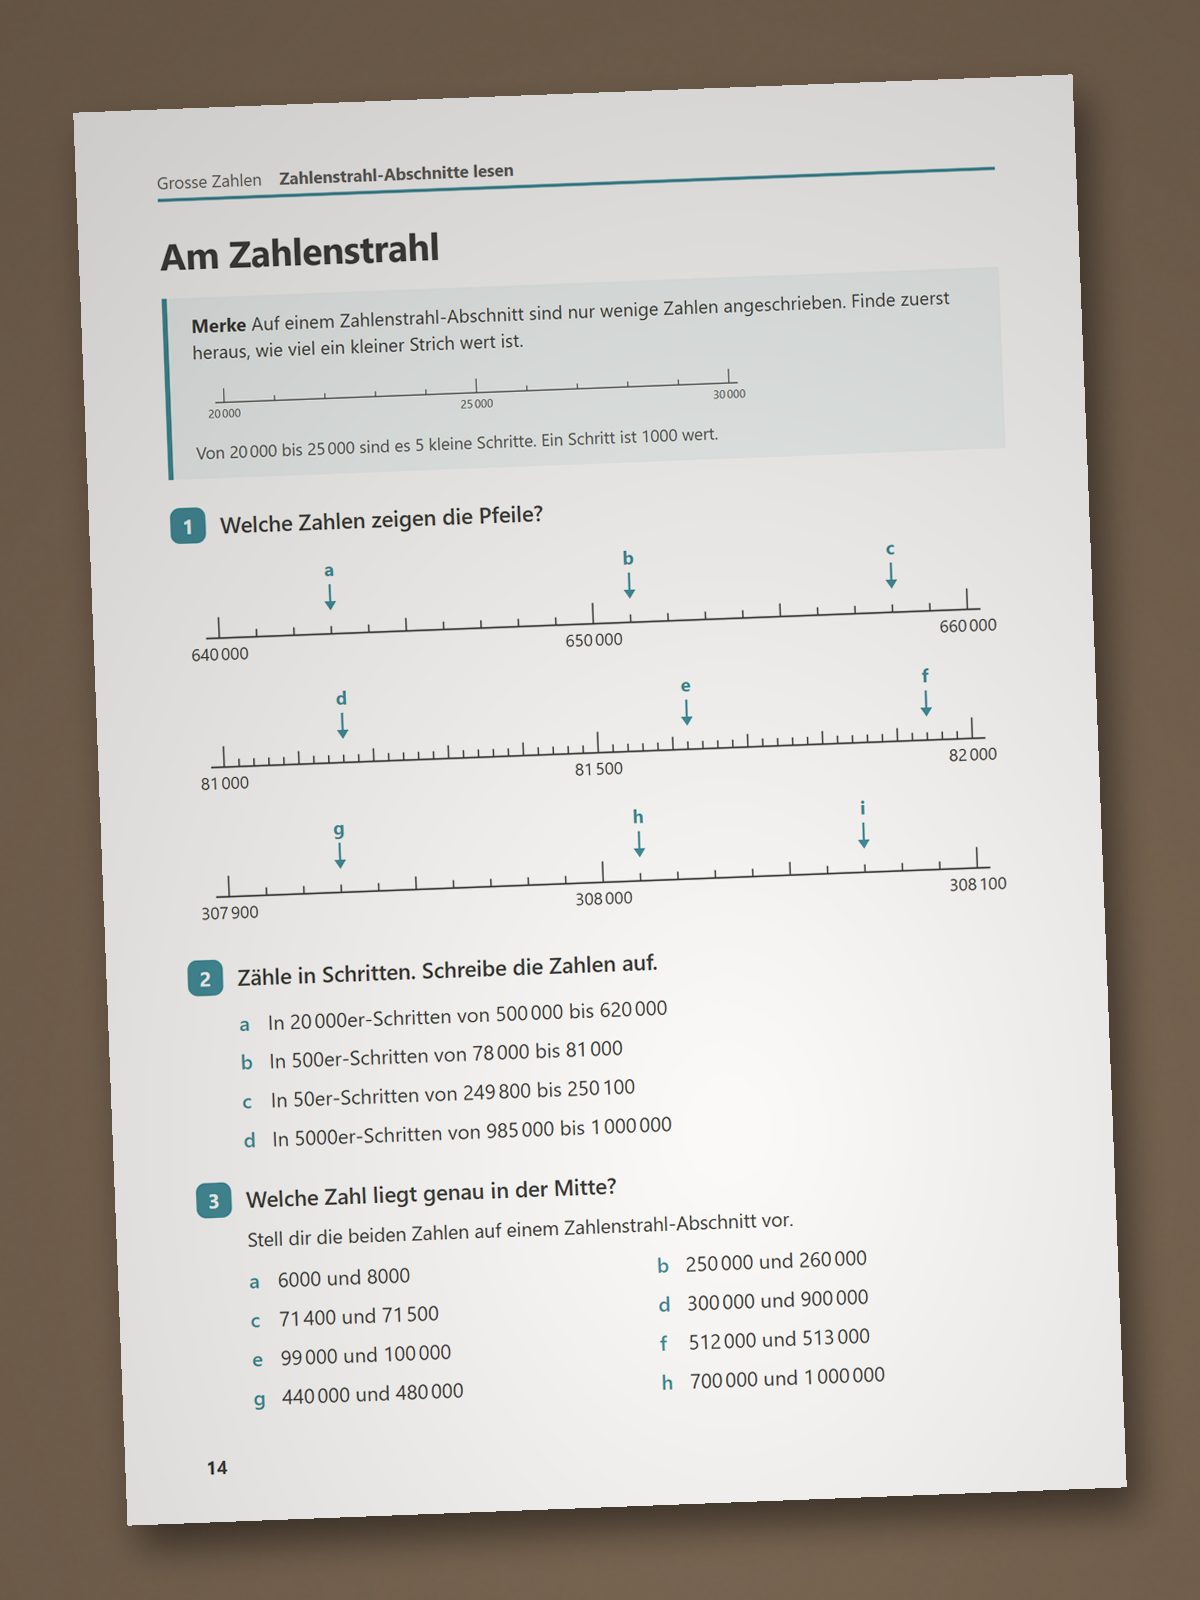
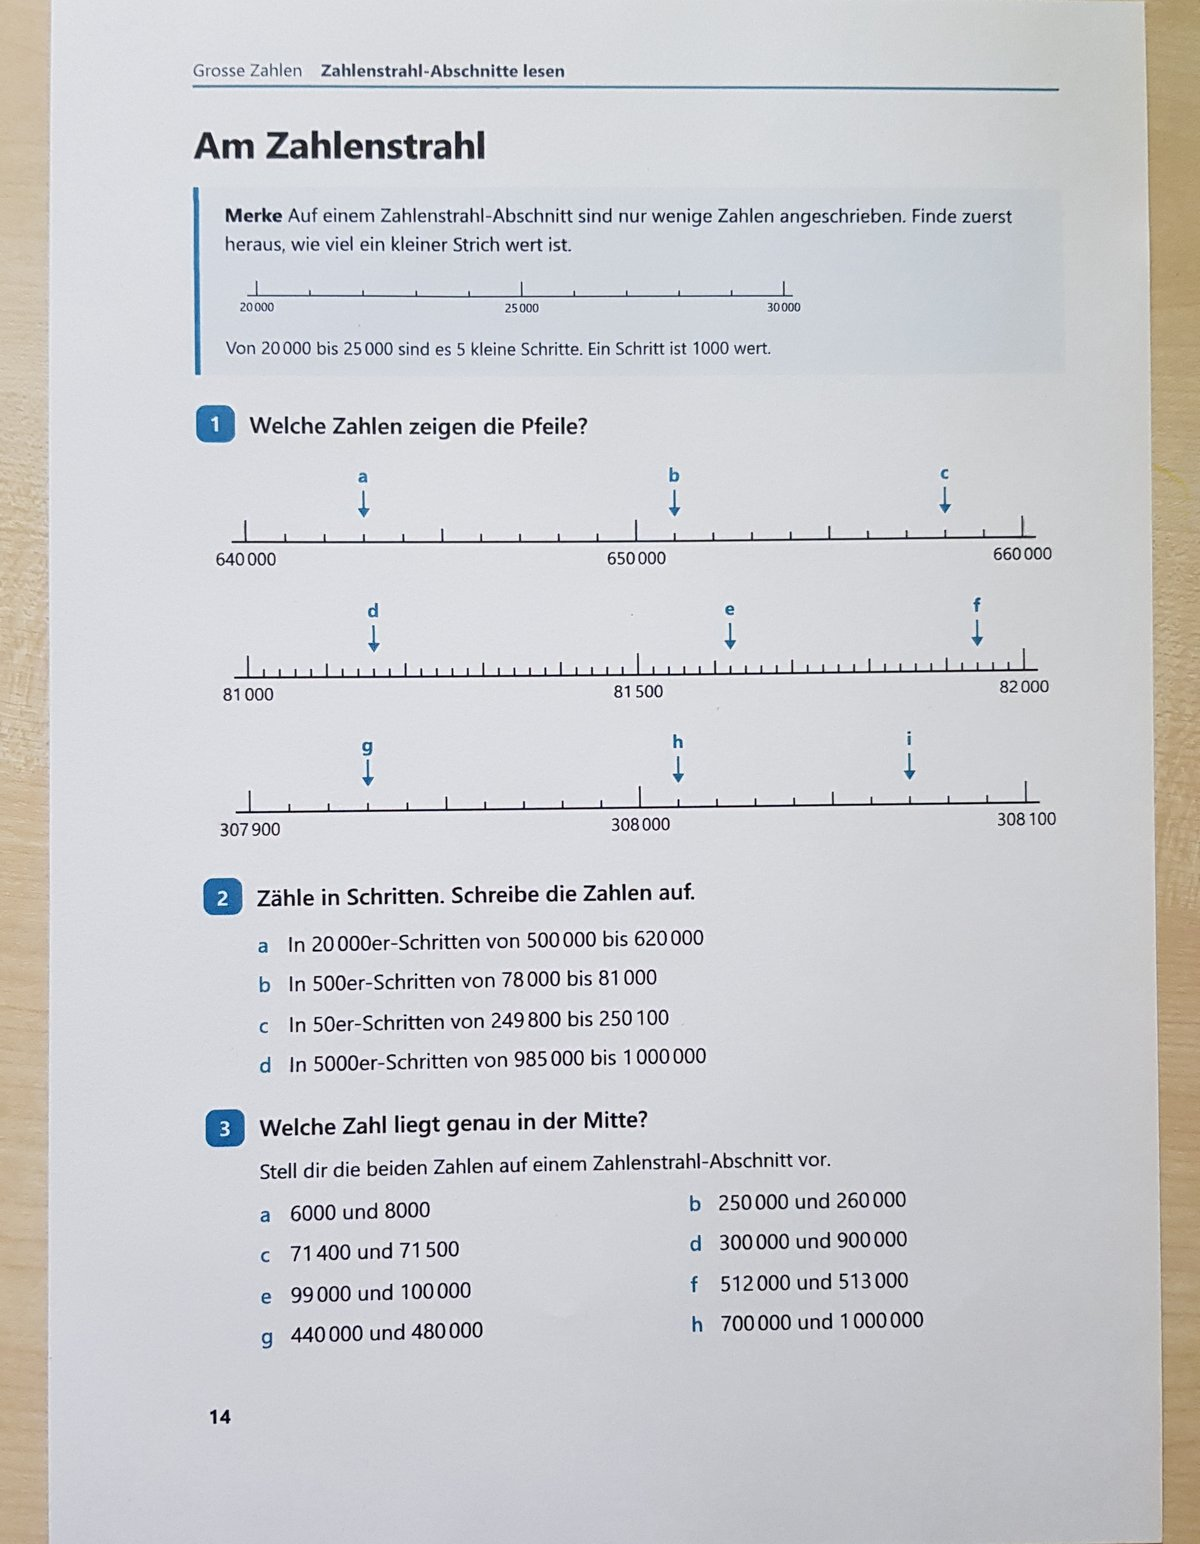
Example: the owner's photographs of the sheets, cut to the paper top and bottom

diff --git a/src/public/example.html b/src/public/example.html
@@ -44,8 +44,8 @@
   <li><h2>The exercise sheets</h2>
     <p>Two maths sheets on number lines, in German, photographed with a phone.</p>
     <div class="pics">
-      <a href="/examples/sheet-photo-1.jpg"><img src="/examples/sheet-photo-1.jpg" alt="Photo of page 1" width="1200" height="1600"></a>
-      <a href="/examples/sheet-photo-2.jpg"><img src="/examples/sheet-photo-2.jpg" alt="Photo of page 2" width="1200" height="1600"></a>
+      <a href="/examples/sheet-photo-1.jpg"><img src="/examples/sheet-photo-1.jpg" alt="Photo of page 1" width="1200" height="1544"></a>
+      <a href="/examples/sheet-photo-2.jpg"><img src="/examples/sheet-photo-2.jpg" alt="Photo of page 2" width="1200" height="1567"></a>
     </div>
     <ul class="files">
       <li><a href="/examples/sheet-photo-1.jpg" download>Photo, page 1 (.jpg)</a></li>

diff --git a/docs/design/example-page.md b/docs/design/example-page.md
@@ -16,11 +16,10 @@ v4 item 10).
   they look for behind it is a walkthrough, not the result alone.
 - An AI told the site's name may follow the strip's link. A teacher's chat with
   an AI, read as page text, could pass for instructions to it.
-- The example's material is the sheet derived from the owner's (his own
-  photographs can't be published) and a conversation with an AI. The owner
-  makes the real conversation on another machine and account, using this page's
-  downloads as the teacher's material; until then both the photographs and the
-  conversation stand in.
+- The example's material is the sheet derived from the owner's, the owner's
+  phone photographs of it printed, and a conversation with an AI. The
+  conversation (4 Nov 2026) was run on earlier stand-in photographs made from
+  the rendered sheet; the photographs on the page are of 5 Nov 2026.
 - An upload costs the shared free site one booking and the quiz's bytes
   (`hosting-and-limits.md`).
 
@@ -44,13 +43,14 @@ strip.
    teacher lands on the check screen.
 
 The files are in `src/public/examples/` (not `example/`, which would collide
-with the page's address). The stand-in photographs were made by
-`.tmp/example/conversation/fake_photos.py` (owner's machine, not in the repo).
+with the page's address). The photographs are the owner's
+originals (`.tmp/ExampleSheets/`, owner's machine, not in the repo) cut to the
+paper at top and bottom, the wood beside it left, 1200 px wide, without the
+camera's metadata.
 
 ## Not known
 
-- The photographs are made from the rendered sheet; the owner's own can't be
-  published. The conversation and the `.zip` ("Big numbers on the number line",
+- The conversation and the `.zip` ("Big numbers on the number line",
   13 questions) are one real run, reviewed by the owner; the zip is that run's
   second turn. The owner may still replace them with a run of his own.
 - Whether a teacher on a phone reads the conversation: the preview is the

diff --git a/docs/backlog.md b/docs/backlog.md
@@ -223,9 +223,9 @@ bar, all in the open list.
     `/example`, "The example, step by step" from the strip, in English. Open:
     - The conversation and `.zip` are a real free Claude Sonnet run of
       2026-11-04, reviewed by the owner (two turns; the second inverts the
-      sheet's no. 1, the number given and the picture to pick). Open: his
-      daylight photographs replace the stand-in ones, and a run of his own may
-      replace this one; whether the quiz's growth past the asked ten and the
+      sheet's no. 1, the number given and the picture to pick). The photographs
+      are his own since 2026-11-05; the run was made on the stand-ins before
+      them. Open: a run of his own may replace this one; whether the quiz's growth past the asked ten and the
       AI's unrequested screen mock-up are worth leaving in the picture.
     - The conversation picture is one light screenshot, shown to light and dark
       devices alike. Proper light and dark variants, chosen by the device's
